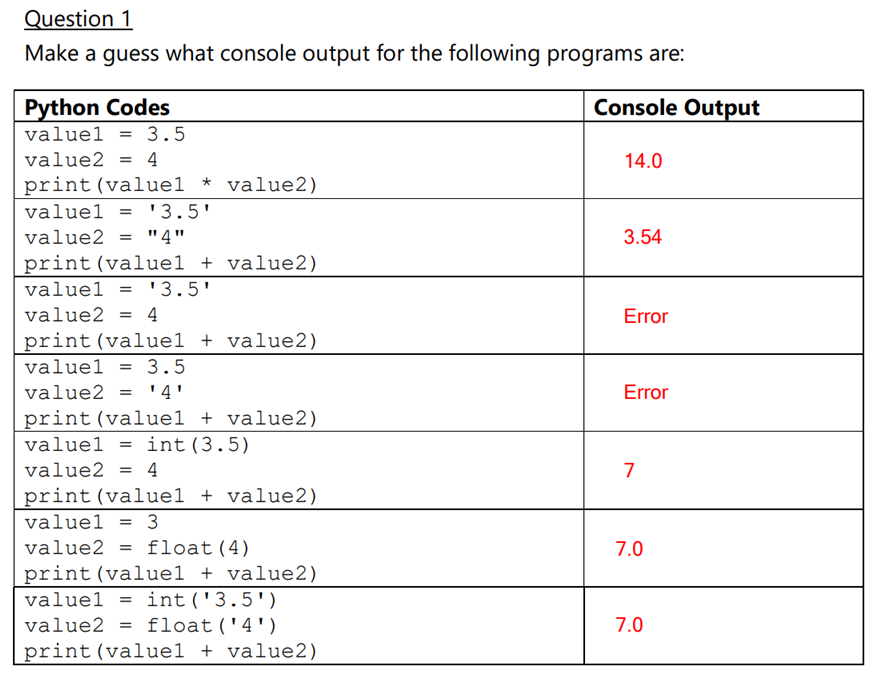
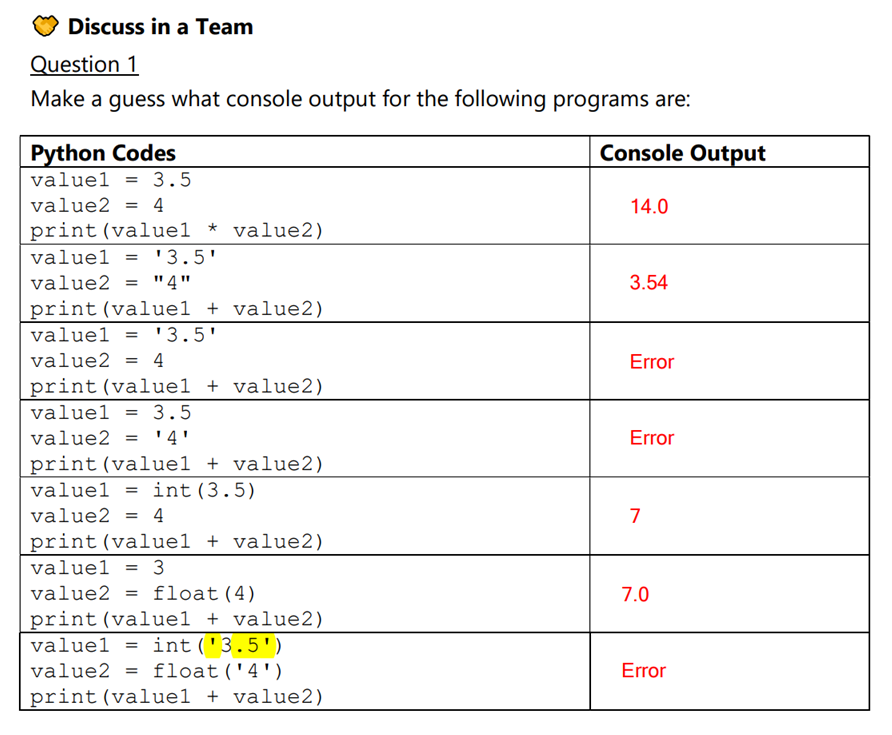
Question 1

Changed region(s): [[0.0, 0.0, 0.9852, 0.9782], [0.7081, 0.6725, 0.7389, 0.7031]]

diff --git a/week3/question1.py b/week3/question1.py
@@ -47,8 +47,8 @@ print(num1 + num2)
 
 # Question 7
 ## Both num1 and num2, they are of different type 
-num1 = int(3.5)
-num2 = float(4)
+num1 = int('3.5')
+num2 = float('4')
 
 print("\nQuestion7")
 print(num1 + num2)
